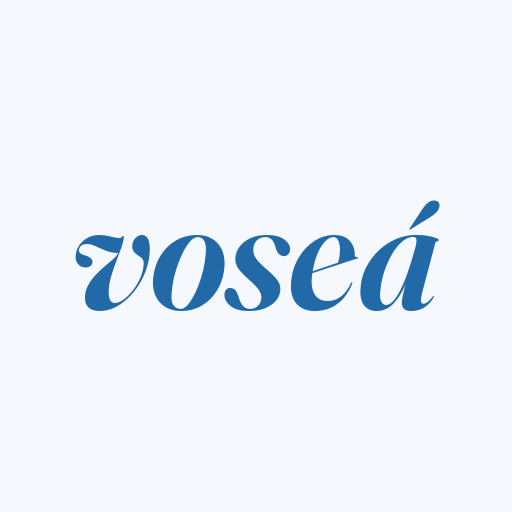
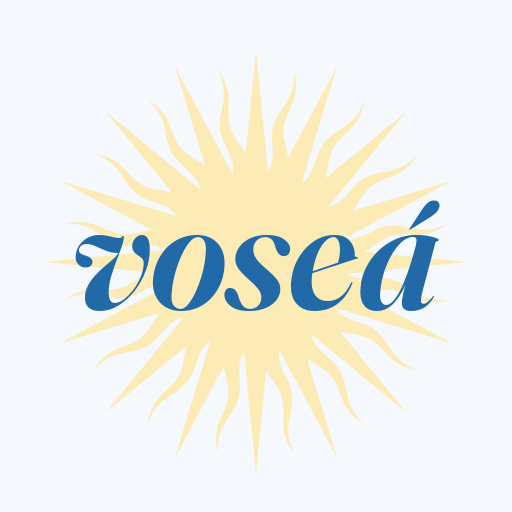
Add files via upload

diff --git a/index.html b/index.html
@@ -4,13 +4,17 @@
 <meta charset="utf-8">
 <meta name="viewport" content="width=device-width, initial-scale=1">
 <!-- must match VOSEA_BUILD in app.js (and sw.js CACHE_NAME): see app.js "out of step" -->
-<meta name="vosea-build" content="177">
+<meta name="vosea-build" content="178">
 <title>voseá</title>
 
 <!-- PWA: manifest + icons -->
 <link rel="manifest" href="manifest.webmanifest">
 <link rel="icon" href="icons/favicon.ico" sizes="any">
-<link rel="icon" href="icons/icon-192.png" type="image/png">
+<!-- small sizes get their own drawing (the v on a sun); the 192 one is the
+     full icon, so it's labeled with its size and never picked for a tab -->
+<link rel="icon" href="icons/icon-32.png" type="image/png" sizes="32x32">
+<link rel="icon" href="icons/icon-16.png" type="image/png" sizes="16x16">
+<link rel="icon" href="icons/icon-192.png" type="image/png" sizes="192x192">
 <link rel="apple-touch-icon" href="icons/icon-180.png">
 
 <!-- PWA: status bar / theme color, matched to --paper so the OS chrome

diff --git a/app.js b/app.js
@@ -5861,7 +5861,7 @@
   // the page, the console says which ones, and the page fetches a fresh copy
   // of itself once (VOSEA_BUILD has to match index.html's vosea-build meta;
   // both go up with sw.js's CACHE_NAME).
-  var VOSEA_BUILD = "177";
+  var VOSEA_BUILD = "178";
   var elMissing = [];
   Object.keys(el).forEach(function (k) {
     if (el[k]) return;

diff --git a/sw.js b/sw.js
@@ -12,7 +12,7 @@
 // from cache immediately if we have it (fast, works offline), and in the
 // background fetch a fresh copy to store for next time.
 
-var CACHE_NAME = "vosea-shell-v177";
+var CACHE_NAME = "vosea-shell-v178";
 
 var SHELL_FILES = [
   "./",
